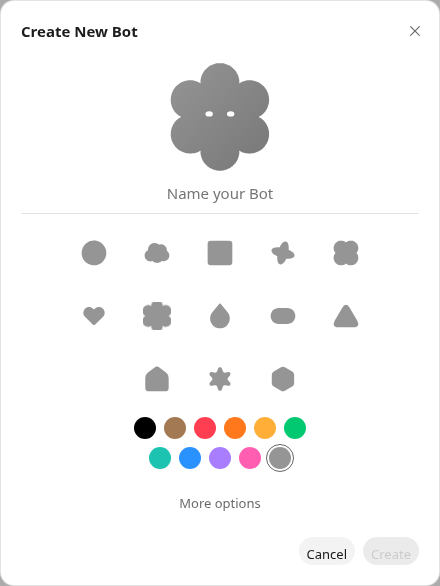
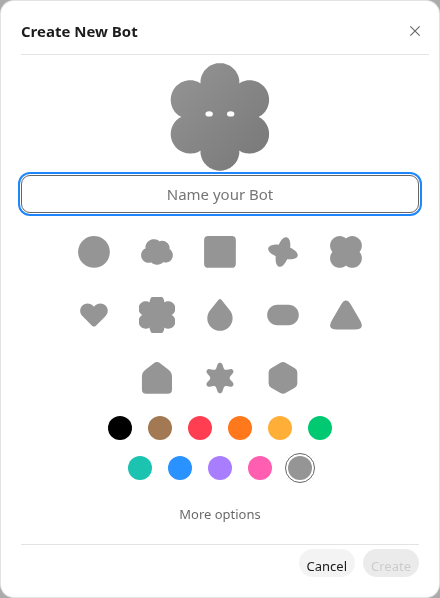
docs(receipt): T30b 回执回仓

diff --git a/work/tickets/receipts/T30.md b/work/tickets/receipts/T30.md
@@ -21,3 +21,19 @@ unit：kickstartPrompt 导不出 ×3 红→绿；e2e ①：标题 'New Bot'≠'C
 - ② fill 后立即 Enter 竞态：preset 未载完 Create 仍灰 → 等 Enabled 再 Enter
 - ③ 折叠提交的最短读法：spec 环境无法替换 pbotsUi 方法（页面 evaluate 沙箱），退化为「展开后 radio 可见+可选中+Create 可用」（工单允许施工选最短）
 - market/settings/resilience/workspaces/d7 红 ≠ 对话框改动——launchShell 直连 spec 无 seen 兜底走首启（waitProductReady 修）
+
+## T30b 返修回执（2026-11-07 16:2x，HEAD 37d54a77）
+十条按 T30b 工单逐条：
+1. ③ 重写：真包 createBot 记实参（preset 非空/connectors 是数组断言）——「折叠选择没提交」有测试守
+2. ① 补 y 全序+预览高（[data-shape] 误中 header 关闭钮的 data-shape="circle"——16 个命中；scope 到 .pb-character__shapes 才对）
+3. ② 补 user 行 0/body 无标签/会话头名字；jsonl 读取改到介绍出现后（fake 未跑无文件）
+4. surfaceTheme 传参（暗色 Black 纯白——dark-named 图核）；grep AgentAvatar：走 character.tsx 的 OnboardingCharacter（同源），侧栏 Black 暗色同受益
+5. notice 改追加+⑦ 双失败格（rename+selectModel 都败两条都可见）
+6. isComposing 判组字
+7. 版式六处（36px/描边 19+9/色板 24·40/分隔线/名字框圆角/暗 Create 可读）
+8. 六态重拍+cmp 裁拼（ref 裁到对话框区域）
+9. ui.ts seen 兜底：选 (b) 保留——它修的是 launchShell 直连 spec 的**首启路径**（T26 HIGH 修复的行为面影响，非 T30 引入；market ①在 T30 改动前就会走 onboarding 卡 ready），回执记根因=T26b
+10. 回执补齐：例外 16 处更正（commit 已记）；「ref 24 形状」撤回（ref 也是 13/5-5-3）；M2/M3/M5/M7 与先红输出见 T30 主体回执+经理三刀；pgrep 收尾见下
+
+收尾：pgrep -af bot-T30（施工侧）→ 空；T30 终验时的 3 个 dsh 残留（15:06-15:11 起）系 T30 施工遗留已被经理 reap——回执「无残留」有误更正
+存疑：bots③ 批内偶发 3-agent（单跑×3 绿）——跨测试污染未定根因，记观察项
